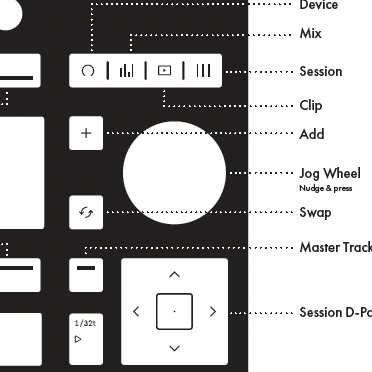
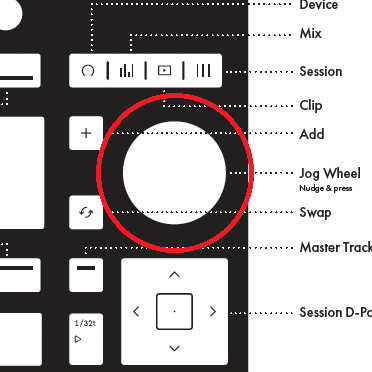
20:15

diff --git a/push/3.md b/push/3.md
@@ -12,6 +12,12 @@
 
 ジョグホイールで「+Audio Track」を選択して、オーディオトラックを追加します。
 
-<img src="./images/3/MakeAudioTrack.jpg">
+<div style="display: flex; justify-content: center;">
 
-<img src="./images/3/JogWheel.jpg">
+<img style="display: block; width: 10em; object-fit: contain;" src="./images/3/MakeAudioTrack.jpg">
+
+<figure>
+<img style="width: 7em"  src="./images/3/JogWheel.png">
+<figcaption style="font-size: 0.5em;">↑ジョグホイールはこれです</figcaption>
+</figure>
+</div>
